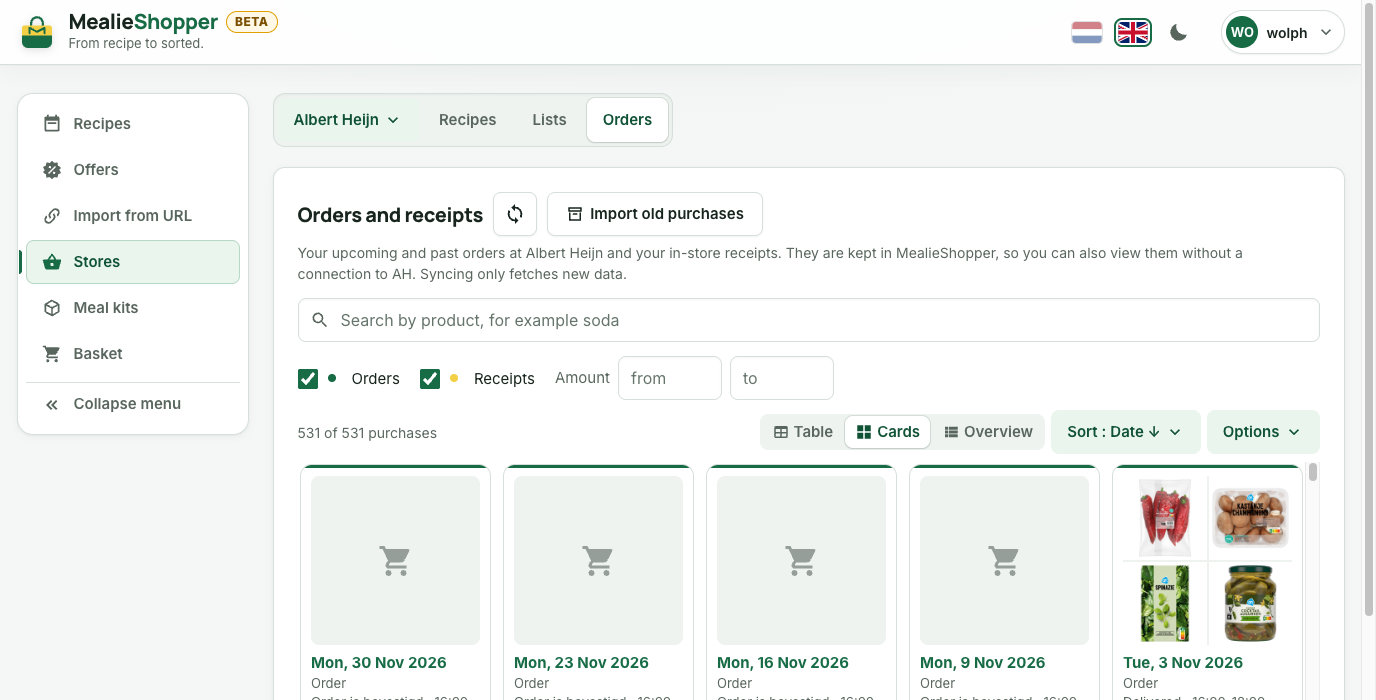
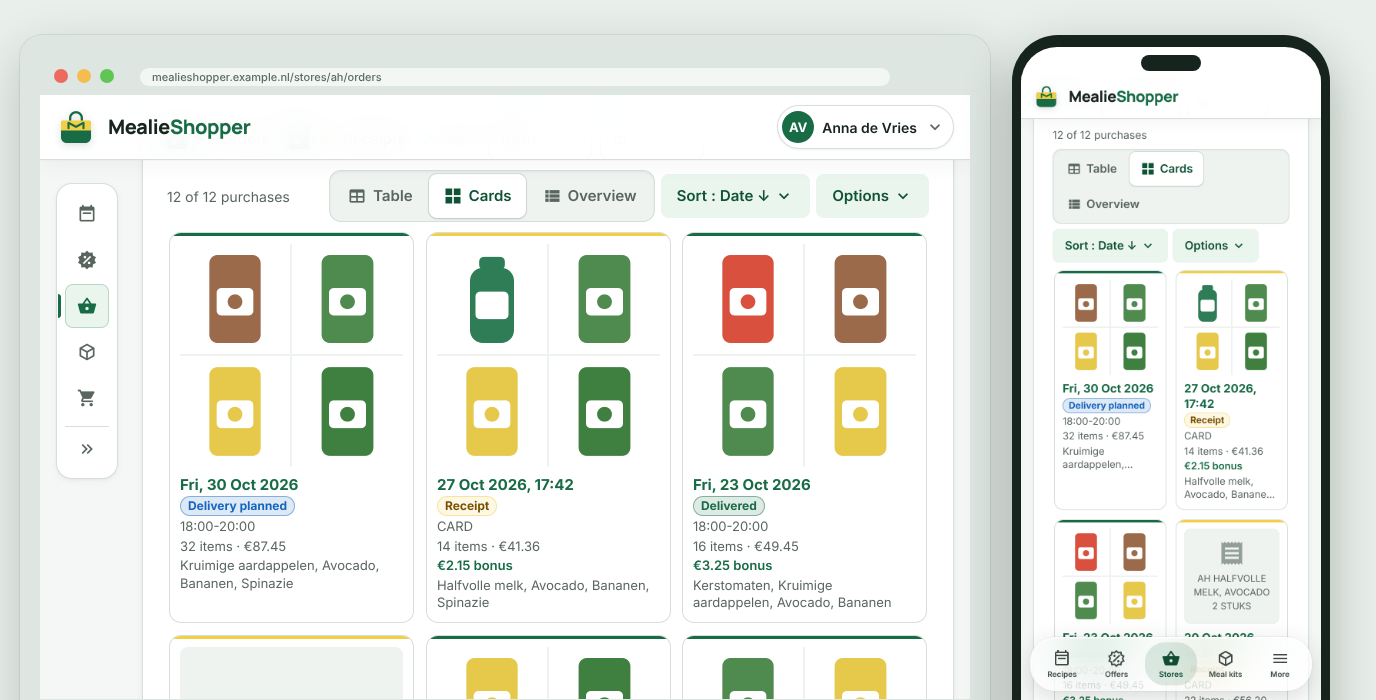
docs: screenshots van de aankopen als kaarten en als overzicht uit een scenario
De screenshots purchases-cards en purchases-overview (nl en en) waren bij
3.4.0 één keer met de hand gemaakt; geen scenario maakte ze, dus het script
sloeg ze over en ze liepen achter (Meer aankopen en Kaarten als standaard op
een telefoon sinds 4.13.0, donkerdere randen van velden sinds 4.12.0, en
foto's van derden).

- scripts/screenshots/scenarios/22-ah-order-views.js: twee scenario's die
  Winkels > Albert Heijn > Bestellingen en kassabonnen openen en in de balk
  Kaarten of Overzicht kiezen. In het venster gaat het menu links dicht, zodat
  de kaarten en de strook van het overzicht passen; de muis gaat weg voor het
  scrollen (geen hovervenster); het koppelen loopt zonder melding. De nieuwste
  kassabon is nu gekoppeld (foto's en namen van de webwinkelproducten), de
  oudere niet (het pictogram van de bon). Alleen demo-gegevens en
  zelfgetekende plaatjes uit demo.js. order-hover, linking-notice en
  order-categories blijven pixel voor pixel gelijk.
- docs/screenshots/{nl,en}/purchases-{cards,overview}.png opnieuw gemaakt,
  zonder LET OP-meldingen, elk onder 300 KB.
- docs/handleiding.md en docs/handleiding.en.md: de alt-teksten van die twee
  afbeeldingen beschrijven wat er nu te zien is (statusbadge, bezorgmoment of
  betaalwijze, productnamen, een bon zonder gekoppelde producten, de
  telefoon).

Alleen documentatie: geen nieuwe versie.

Claude-Session: https://claude.ai/code/session_01KSdu55X27SvhkNkAtJAM44

diff --git a/scripts/screenshots/scenarios/22-ah-order-views.js b/scripts/screenshots/scenarios/22-ah-order-views.js
@@ -1,6 +1,7 @@
 // Winkels > Albert Heijn, versie 3.8.0: een bestelling per categorie, het hovervenster van een bestelling op de lijst en de
 // melding als AH het koppelen even stillegt. De gegevens zijn nagebootst zoals de detail- en lijstroutes ze sinds 3.8.0 geven
-// (categorie, gewone prijs van 30 dagen, korting, eerder gekocht, bespaard en status).
+// (categorie, gewone prijs van 30 dagen, korting, eerder gekocht, bespaard en status). Ook de lijst als kaarten en als overzicht
+// (purchases-cards en purchases-overview); die waren eerder één keer met de hand gemaakt, bij 3.4.0.
 const { product } = require("../demo");
 
 async function lang(request) {
@@ -71,14 +72,17 @@ async function orderDetail(route, request) {
   });
 }
 
+// Twee bonnen: de nieuwste is gekoppeld (de foto's en namen van de webwinkelproducten), de oudere nog niet (het pictogram van de
+// bon en de afgekorte namen op de bon). De kaarten en het overzicht tonen zo allebei; de tabel toont geen foto's of namen.
+const LINKED = [8, 2, 3, 4, 9, 0].map((index) => ITEMS[index]);
 const receipts = {
   syncedAt: "2026-10-28T09:41:00",
   receipts: [
-    ["2026-10-27T17:42:00", 41.36, 14],
-    ["2026-10-20T18:31:00", 56.2, 22],
-  ].map(([dateTime, total, itemCount], index) => ({
-    id: `kb-${index + 1}`, dateTime, total, detailsSynced: true, itemCount, payment: "PIN", images: [], productNames: ["AH HALFVOLLE MELK", "AVOCADO 2 STUKS"],
-    savings: 1.0, statusKind: "receipt", statusText: null,
+    ["2026-10-27T17:42:00", 41.36, 14, LINKED.map((item) => item.image), LINKED.slice(0, 4).map((item) => item.title), 2.15],
+    ["2026-10-20T18:31:00", 56.2, 22, [], ["AH HALFVOLLE MELK", "AVOCADO 2 STUKS"], 1.0],
+  ].map(([dateTime, total, itemCount, images, productNames, savings], index) => ({
+    id: `kb-${index + 1}`, dateTime, total, detailsSynced: true, itemCount, payment: "PIN", images, productNames,
+    savings, statusKind: "receipt", statusText: null,
   })),
 };
 
@@ -101,6 +105,18 @@ const routes = {
   "/api/ah/linking": LINKING,
 };
 
+// Het koppelen loopt gewoon: geen pauze, budget over en niets te doen, dus geen melding boven de lijst (linkingNotice in
+// static/linking.js). Voor de screenshots van de weergaven, waar de melding alleen ruimte zou kosten.
+const QUIET = {
+  ...LINKING,
+  pausedUntil: null,
+  pausedSince: null,
+  pausedStatus: null,
+  budget: { used: 12, limit: 120, resetAt: null },
+  todo: { lines: 0, receipts: 0, images: 0 },
+};
+const listRoutes = { ...routes, "/api/ah/linking": QUIET };
+
 // Scrollt een blok onder de vaste balk bovenaan, `gap` pixels van de bovenrand.
 const scrollTo = (page, selector, gap = 84) =>
   page.evaluate(([target, offset]) => {
@@ -111,6 +127,30 @@ const scrollTo = (page, selector, gap = 84) =>
 const pickView = async (page, prefix, view) => {
   await page.click(`#${prefix}-view-switch [data-view="${view}"]`);
   await page.waitForTimeout(400);
+};
+
+// De lijst in de weergave Kaarten of Overzicht (bindViewBar in static/purchase_views.js), met de balk (telling, weergaven,
+// Sorteren en Opties) bovenaan, zodat de kaarten er heel onder passen. Op een telefoon staat Kaarten al aan (de standaard sinds
+// 4.13.0); de klik zet daar Overzicht.
+// In het venster gaat het menu links dicht (Menu inklappen): op 930 px breed krijgen de kaarten en de rijen van het overzicht,
+// met hun strook van 356 px, anders te weinig ruimte. Op een telefoon is er geen menu links.
+const listView = (view) => async (page) => {
+  await page.waitForSelector('[data-popover="purchase"]');
+  const toggle = page.locator("#nav-toggle");
+  if (await toggle.isVisible()) await toggle.click();
+  await pickView(page, "purchase", view);
+  await page.waitForSelector(view === "cards" ? "#ah-purchase-cards .purchase-card" : "#ah-purchase-overview .purchase-overview__row");
+  // De muis weg van de balk: na het scrollen zou hij op een kaart of foto staan en het hovervenster openen (popover.js).
+  await page.mouse.move(2, 2);
+  await page.evaluate(() => document.activeElement && document.activeElement.blur());
+  await page.waitForTimeout(400);
+  // De filters net achter de vaste balk bovenaan (.topbar), zodat er geen rand van de bedragvelden onder uitsteekt; de balk van de
+  // lijst staat dan met zijn eigen marge eronder. Gemeten in de pagina: de balk is in het venster en op de telefoon niet even hoog.
+  await page.evaluate(() => {
+    const top = document.querySelector(".topbar").getBoundingClientRect().bottom;
+    const filters = document.querySelector("#ah-orders-view .purchase-filters").getBoundingClientRect().bottom + window.scrollY;
+    window.scrollTo(0, filters - top);
+  });
 };
 
 module.exports = [
@@ -160,5 +200,21 @@ module.exports = [
       await page.waitForSelector("#ah-linking-notice .message");
       await scrollTo(page, "#ah-orders-view");
     },
+  },
+  {
+    // De lijst als kaarten: per aankoop een collage van vier foto's, de datum, de statusbadge en de streep van de soort, het
+    // bezorgmoment of de betaalwijze, producten en bedrag, het bespaarde bedrag en de eerste productnamen.
+    name: "purchases-cards",
+    path: "/stores/ah/orders",
+    routes: listRoutes,
+    run: listView("cards"),
+  },
+  {
+    // De lijst als overzicht: per rij de datum en het bedrag, de details op een regel, de productnamen en rechts een strook van
+    // zes foto's (of het pictogram van een bon zonder gekoppelde producten).
+    name: "purchases-overview",
+    path: "/stores/ah/orders",
+    routes: listRoutes,
+    run: listView("overview"),
   },
 ];

diff --git a/docs/handleiding.md b/docs/handleiding.md
@@ -173,9 +173,9 @@ Je bestellingen en kassabonnen staan samen in één tabel, de nieuwste bovenaan.
 
 **Tabel, kaarten of overzicht.** Rechts boven de lijst wissel je tussen drie weergaven van dezelfde gefilterde lijst: de **Tabel**, **Kaarten** met een collage van productfoto's (vier, of zes bij grote kaarten) en het **Overzicht** met per aankoop de details op een rij en rechts een strook foto's (rechts, op een vaste breedte, zodat de tekst in elke rij op dezelfde plek begint). Een kassabon toont de foto's van de webwinkelproducten waaraan zijn regels gekoppeld zijn. Een ingelezen bestelling toont de foto's van de producten waar haar regels bij horen; een ingelezen bestelling of een bon zonder gekoppelde producten krijgt het pictogram van zijn soort en de eerste productnamen. Elke soort heeft een kleur: groen voor een bestelling, geel voor een kassabon, grijs voor een ingelezen bestelling, als bolletje in de tabel en bij de vinkjes en als streep op de kaarten en in het overzicht. Een ingelezen bestelling heet verder gewoon *Bestelling*, met een archiefdoos erachter (wijs je die aan, dan staat er *Geïmporteerd uit je bevestigingsmails*). Met **Sorteren** kies je datum, bedrag of aantal producten, oplopend of aflopend (een klik op een kolomkop in de tabel doet hetzelfde). Met **Opties** kies je de kaartgrootte en wat een kaart laat zien: status en bezorgmoment (bij een bon de betaalwijze), het bespaarde bonusbedrag en de productnamen. Bij zoeken tonen de kaarten en het overzicht de gevonden regels. De weergave, de sortering en de opties blijven bewaard in je browser, ook als je een bestelling opent en teruggaat. Wisselen en sorteren gaan zonder verzoek aan de server. Op een telefoon is **Kaarten** de standaard, zolang je zelf geen weergave koos: de tabel met zes kolommen past daar niet.
 
-<img src="screenshots/nl/purchases-cards.png" alt="De aankopen als kaarten: per bestelling of kassabon een collage van vier productfoto's, de datum, de soort met een gekleurde streep, het aantal producten, het bedrag en het bespaarde bonusbedrag" width="900">
+<img src="screenshots/nl/purchases-cards.png" alt="De aankopen als kaarten: per bestelling of kassabon een collage van vier productfoto's, de datum, een statusbadge en een gekleurde streep voor de soort, het bezorgmoment of de betaalwijze, het aantal producten en het bedrag, het bespaarde bonusbedrag en de eerste productnamen; op de telefoon, waar Kaarten de standaard is, twee kaarten naast elkaar en een kassabon zonder gekoppelde producten met het pictogram van de bon" width="900">
 
-<img src="screenshots/nl/purchases-overview.png" alt="De aankopen als overzicht: per rij de datum, het bedrag en de details, rechts een strook van zes productfoto's, met de kleurstreep van de soort links" width="900">
+<img src="screenshots/nl/purchases-overview.png" alt="De aankopen als overzicht: per rij de datum en het bedrag, de statusbadge met het bezorgmoment of de betaalwijze, het aantal producten en het bespaarde bonusbedrag, de productnamen en rechts een strook van zes productfoto's (bij een kassabon zonder gekoppelde producten het pictogram van de bon), met de kleurstreep van de soort links; op de telefoon staan vier foto's onder de details" width="900">
 
 **Hovers.** Met een muis houd je de aanwijzer even stil op een aankoop of een productfoto voor meer details. Op een productfoto in de kaarten of het overzicht zie je de foto groot met de naam, het merk en de inhoud, de categorie, wat je betaalde ("2x €1,19 = €2,38") met de kortingsbadge, en hoe vaak je het product eerder kocht. Op de rest van een aankoop (de rij in de tabel of het overzicht, of de kaart) zie je per categorie hoeveel stuks en soorten erin zaten, een paar kleine foto's en het subtotaal, met onderaan het bespaarde bedrag en het totaal. Ook een grote bestelling past op het scherm. Een klik op het venster opent de aankoop, en Escape of een klik ernaast sluit het. Het venster leest alleen wat MealieShopper al bewaard heeft en vraagt niets aan AH. Op een telefoon of tablet zijn er geen hovers: een tik opent de aankoop zoals altijd.
 

diff --git a/docs/handleiding.en.md b/docs/handleiding.en.md
@@ -173,9 +173,9 @@ Your orders and receipts share one table, newest first. Above it you choose what
 
 **Table, cards or overview.** Above the list on the right you switch between three views of the same filtered list: the **Table**, **Cards** with a collage of product photos (four, or six on large cards) and the **Overview** with the details of each purchase on one row and a strip of photos on the right (on the right, at a fixed width, so the text of every row starts at the same place). A receipt shows the photos of the webshop products its lines are linked to. An imported order shows the photos of the products its lines belong to; an imported order or a receipt without linked products gets the icon of its kind and the first product names. Each kind has a colour: green for an order, yellow for a receipt, grey for an imported order, as a dot in the table and at the checkboxes and as a stripe on the cards and in the overview. Otherwise an imported order is simply called *Order*, with an archive box after it (point at it and it says *Imported from your confirmation emails*). With **Sort** you choose date, amount or number of products, ascending or descending (clicking a column header in the table does the same). With **Options** you choose the card size and what a card shows: status and delivery slot (the payment method for a receipt), the bonus amount saved and the product names. When searching, the cards and the overview show the matching lines. The view, the sort order and the options are kept in your browser, also when you open an order and go back. Switching and sorting need no request to the server. On a phone **Cards** is the default, as long as you have not chosen a view yourself: the six-column table does not fit there.
 
-<img src="screenshots/en/purchases-cards.png" alt="The purchases as cards: per order or receipt a collage of four product photos, the date, the kind with a coloured stripe, the number of products, the amount and the bonus amount saved" width="900">
+<img src="screenshots/en/purchases-cards.png" alt="The purchases as cards: per order or receipt a collage of four product photos, the date, a status badge and a coloured stripe for the kind, the delivery slot or the payment method, the number of products and the amount, the bonus amount saved and the first product names; on the phone, where Cards is the default, two cards side by side and a receipt without linked products with the receipt icon" width="900">
 
-<img src="screenshots/en/purchases-overview.png" alt="The purchases as an overview: per row the date, the amount and the details, a strip of six product photos on the right, with the colour stripe of the kind on the left" width="900">
+<img src="screenshots/en/purchases-overview.png" alt="The purchases as an overview: per row the date and the amount, the status badge with the delivery slot or the payment method, the number of products and the bonus amount saved, the product names and a strip of six product photos on the right (the receipt icon for a receipt without linked products), with the colour stripe of the kind on the left; on the phone four photos sit below the details" width="900">
 
 **Hovers.** With a mouse, rest the pointer on a purchase or a product photo for a moment to see more. On a product photo in the cards or the overview you see the photo large with the name, brand and size, the category, what you paid ("2x €1.19 = €2.38") with the discount badge, and how often you bought the product before. On the rest of a purchase (the row in the table or the overview, or the card) you see per category how many units and products it held, a few small photos and the subtotal, with the amount saved and the total at the bottom. A large order fits on the screen too. A click on the window opens the purchase, and Escape or a click next to it closes it. The window only reads what MealieShopper already keeps and asks AH for nothing. A phone or tablet has no hovers: a tap opens the purchase as always.
 
